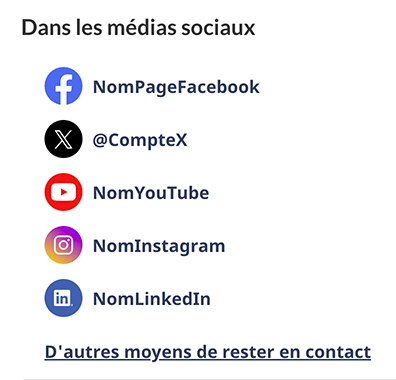
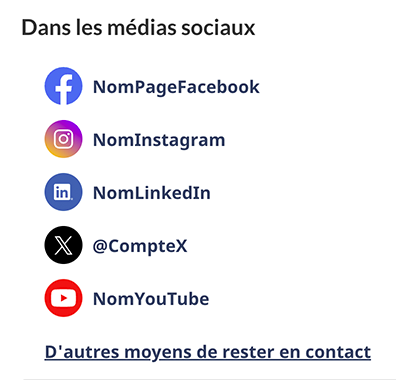
deploy: e136e1357b413902c76cb1150d416f6a62a647f1

diff --git a/configurations-conception-communes/bloc-medias-sociaux.html b/configurations-conception-communes/bloc-medias-sociaux.html
@@ -18,7 +18,7 @@
 		<meta name="dcterms.accessRights" content="2" />
 		<meta name="gcaaterms.sitename" content="ESDC-EDSC_CanadacaDesign-ConceptionCanadaca" />
 		<meta name="dcterms.issued" title="W3CDTF" content="2018-12-19"/>
-		<meta name="dcterms.modified" title="W3CDTF" content="2025-05-15"/>
+		<meta name="dcterms.modified" title="W3CDTF" content="2026-01-30"/>
 		<meta name="generator" content="Jekyll v4.3.2" />
 		<meta name="google-site-verification" content="Nt_CftRIypA9xVS7Znb2VkrsYbtIDuFWHryxSAC6OwM" />
 		<meta name="yandex-verification" content="4dda5b1b6e392d83" />
@@ -176,9 +176,9 @@
 				<span>Chaînes de médias sociaux</span>: <span>Conception de Canada.ca</span>
 			</span>
 		</h1><!-- Custom code ends here -->
-		<p><strong>Dernière mise à jour</strong>&nbsp;: 2025-05-15</p>
+		<p><strong>Dernière mise à jour</strong>&nbsp;: 2026-01-30</p>
 <p>La configuration de conception des chaînes de médias sociaux fournit des liens vers les comptes de médias sociaux officiels du gouvernement du Canada (GC).</p>
-<div class="pattern-demo mrgn-tp-lg mrgn-bttm-xl"><img src="/images/social-media-vertical-mask-fr.png" class="img-responsive" alt="" /></div>
+<div class="pattern-demo mrgn-tp-lg mrgn-bttm-xl"><img src="../images/social-media-vertical-mask-fr.png" class="img-responsive" alt="" /></div>
 <section>
   <h2>Sur cette page</h2>
   <ul>
@@ -210,15 +210,14 @@
   <h3>Spécifications de contenu</h3>
   <p>La configuration de conception des chaînes de médias sociaux est composée du titre «&nbsp;Dans les médias sociaux &nbsp;» et d’icônes renvoyant aux comptes de médias sociaux officiels du gouvernement du Canada.</p>
   <p>Les comptes mentionnés dans la configuration de conception doivent être entièrement conformes à la <a href="https://www.tbs-sct.canada.ca/pol/doc-fra.aspx?id=30682">Directive sur la gestion des communications.</a></p>
+  <p>Vous pouvez utiliser les icônes d’autres médias sociaux que celles qui sont fournies dans cet exemple, en autant qu’ils représentent des comptes de médias sociaux officiels du GC.</p>
+  <p>L’ordre des icônes des médias sociaux n’est pas imposé. Vous pouvez les placer dans l’ordre qui convient le mieux au contexte.</p>
   <p>Afficher un maximum de cinq (5) icônes alignées dans une colonne verticale ou une rangée horizontale&nbsp;:</p>
   <ul>
     <li>L’affichage vertical comprend une étiquette à côté de chaque icône.</li>
     <li>L’affichage horizontal ne comprend que les icônes.</li>
   </ul>
-  <h4>Lien optionnel</h4>
-  <p>Vous pouvez ajouter un lien intitulé «&nbsp;D’autres moyens de rester en contact&nbsp;» si vous souhaitez créer un lien vers d’autres comptes de médias sociaux ou d’autres plateformes de communication ministérielles (p. ex., balados, magazines externes, etc.). Le lien doit mener vers une page qui répertorie tous vos comptes de médias sociaux et les autres moyens de communiquer avec le ministère ou de le suivre.</p>
-
-  <p>S’il y a plus d’un compte pour une plateforme&nbsp;:</p>
+    <p>S’il y a plus d’un compte pour une plateforme&nbsp;:</p>
   <ul>
     <li>Indiquez le nom de la plateforme à côté de son icône (affichage vertical seulement).</li>
     <li>Utilisez une fenêtre contextuelle modale pour afficher le nom de chaque compte sur cette plateforme.
@@ -229,6 +228,8 @@
     </li>
   </ul>
   <p>Placez les chaînes de médias sociaux après la tâche et le contenu de navigation.</p>
+  <h4>Lien optionnel</h4>
+  <p>Vous pouvez ajouter un lien intitulé «&nbsp;D’autres moyens de rester en contact&nbsp;» si vous souhaitez créer un lien vers d’autres comptes de médias sociaux ou d’autres plateformes de communication ministérielles (p. ex., balados, magazines externes, etc.). Le lien doit mener vers une page qui répertorie tous vos comptes de médias sociaux et les autres moyens de communiquer avec le ministère ou de le suivre.</p>
   <h3>Spécifications de conception</h3>
   <ul>
     <li>Spécifications de conception de la fenêtre contextuelle modale
@@ -277,24 +278,6 @@
                 </div></td>
             </tr>
             <tr>
-              <td>X</td>
-              <td><p>twitter</p></td>
-              <td class="text-center"><div class="provisional gc-followus">
-                  <ul class="list-inline">
-                    <li><a href="https://github.com/wet-boew/GCWeb/blob/master/components/gc-follow-us/assets/x.svg" class="twitter"><span class="wb-inv">X</span></a></li>
-                  </ul>
-                </div></td>
-            </tr>
-            <tr>
-              <td>YouTube</td>
-              <td><p>youtube</p></td>
-              <td class="text-center"><div class="provisional gc-followus">
-                  <ul class="list-inline">
-                    <li><a href="https://github.com/wet-boew/GCWeb/blob/master/components/gc-follow-us/assets/youtube.svg" class="youtube"><span class="wb-inv">YouTube</span></a></li>
-                  </ul>
-                </div></td>
-            </tr>
-            <tr>
               <td>Instagram</td>
               <td>instagram</td>
               <td class="text-center"><div class="provisional gc-followus">
@@ -312,6 +295,24 @@
                   </ul>
                 </div></td>
             </tr>
+            <tr>
+              <td>X</td>
+              <td><p>twitter</p></td>
+              <td class="text-center"><div class="provisional gc-followus">
+                  <ul class="list-inline">
+                    <li><a href="https://github.com/wet-boew/GCWeb/blob/master/components/gc-follow-us/assets/x.svg" class="twitter"><span class="wb-inv">X</span></a></li>
+                  </ul>
+                </div></td>
+            </tr>
+            <tr>
+              <td>YouTube</td>
+              <td><p>youtube</p></td>
+              <td class="text-center"><div class="provisional gc-followus">
+                  <ul class="list-inline">
+                    <li><a href="https://github.com/wet-boew/GCWeb/blob/master/components/gc-follow-us/assets/youtube.svg" class="youtube"><span class="wb-inv">YouTube</span></a></li>
+                  </ul>
+                </div></td>
+            </tr>
           </tbody>
         </table>
       </div>
@@ -321,16 +322,16 @@
   <div class="pattern-demo mrgn-tp-md mrgn-bttm-md">
     <figure class="mrgn-tp-md mrgn-bttm-lg">
       <figcaption><b>Chaînes de médias sociaux (affichage vertical avec étiquettes) — grand écran</b></figcaption>
-      <img src="/images/social-media-vertical-mask-fr.png" class="img-responsive" alt="Chaînes de médias sociaux (affichage vertical avec étiquettes) pour les grands écrans. Version texte ci-dessous&nbsp;:" />
+      <img src="../images/social-media-vertical-mask-fr.png" class="img-responsive" alt="Chaînes de médias sociaux (affichage vertical avec étiquettes) pour les grands écrans. Version texte ci-dessous&nbsp;:" />
       <details>
         <summary class="wb-toggle" data-toggle="{&quot;print&quot;:&quot;on&quot;}">Description de l’image&nbsp;: chaîne de médias sociaux (affichage horizontal) - grand écran</summary>
         <p>Les liens vers les chaînes de médias sociaux apparaissent avec le titre «&nbsp;Dans les médias sociaux &nbsp;». On trouve sous le titre une liste horizontale avec les icônes et les étiquettes associées&nbsp;:</p>
         <ul>
           <li>Icône de Facebook suivie du texte de l’espace réservé NomPageFacebook</li>
+           <li>Icône d’Instagram suivie du texte de l’espace réservé NomInstagram</li>
+          <li>Icône de LinkedIn suivie du texte de l’espace réservé NomLinkedIn</li>
           <li>Icône de X suivie du texte de l’espace réservé @CompteX</li>
           <li>Icône de YouTube suivie du texte de l’espace réservé NomYouTube</li>
-          <li>Icône d’Instagram suivie du texte de l’espace réservé NomInstagram</li>
-          <li>Icône de LinkedIn suivie du texte de l’espace réservé NomLinkedIn</li>
         </ul>
       </details>
     </figure>
@@ -338,16 +339,16 @@
   <div class="pattern-demo mrgn-tp-md mrgn-bttm-md">
     <figure class="mrgn-tp-md mrgn-bttm-lg">
       <figcaption><b>Chaînes de médias sociaux (affichage vertical avec étiquettes) — grand écran</b></figcaption>
-      <img src="/images/social-media-horizontal-mask-fr.png" class="img-responsive" alt="Chaînes de médias sociaux (affichage vertical avec étiquettes) pour les grands écrans. Version texte ci-dessous&nbsp;:" />
+      <img src="../images/social-media-horizontal-mask-fr.png" class="img-responsive" alt="Chaînes de médias sociaux (affichage vertical avec étiquettes) pour les grands écrans. Version texte ci-dessous&nbsp;:" />
       <details>
         <summary class="wb-toggle" data-toggle="{&quot;print&quot;:&quot;on&quot;}">Description de l’image&nbsp;: chaîne de médias sociaux (affichage horizontal) - grand écran</summary>
         <p>Les liens vers les chaînes de médias sociaux apparaissent avec le titre «&nbsp;Dans les médias sociaux &nbsp;».  On trouve sous le titre une liste horizontale avec les icônes associées, mais sans les étiquettes&nbsp;:</p>
         <ul>
           <li>Facebook</li>
-          <li>X</li>
-          <li>Youtube</li>
           <li>Instagram</li>
           <li>LinkedIn</li>
+          <li>X</li>
+          <li>Youtube</li>
         </ul>
       </details>
     </figure>
@@ -361,9 +362,9 @@
         <p>Les liens vers les chaînes de médias sociaux apparaissent avec le titre «&nbsp;Dans les médias sociaux &nbsp;». Les liens sont organisés dans une liste à puces avec les icônes et les étiquettes associées&nbsp;:</p>
         <ul>
           <li>Icône de Facebook suivie du texte de l’espace réservé NomPageFacebook</li>
-          <li>Icône de X suivie du texte de l’espace réservé @CompteX</li>
           <li>Icône de YouTube suivie du texte de l’espace réservé NomYouTube</li>
           <li>Icône d’Instagram suivie du texte de l’espace réservé NomInstagram</li>
+          <li>Icône de X suivie du texte de l’espace réservé @CompteX</li>
           <li>Icône de LinkedIn suivie du texte de l’espace réservé NomLinkedIn</li>
         </ul>
         <p>Sous les icônes se trouve un lien intitulé&nbsp;: D’autres moyens de rester en contact</p>
@@ -379,9 +380,9 @@
         <p>Les liens vers les chaînes de médias sociaux apparaissent avec le titre «&nbsp;Dans les médias sociaux &nbsp;». Les liens sont organisés dans une liste à puces avec les icônes et les étiquettes associées&nbsp;:</p>
         <ul>
           <li>Icône de Facebook</li>
-          <li>Icône de X</li>
           <li>Icône de YouTube</li>
           <li>Icône d’Instagram</li>
+          <li>Icône de X</li>
           <li>Icône de LinkedIn</li>
         </ul>
         <p>Sous les icônes se trouve un lien intitulé&nbsp;: D’autres moyens de rester en contact</p>
@@ -455,6 +456,8 @@
 <section id="changements">
   <h2>Derniers changements</h2>
   <dl class="dl-horizontal">
+   <dt><time>2026-01-30</time></dt>
+    <dd> L’orientation qui précise que d’autres icônes de médias sociaux peuvent être utilisées et qu’elles peuvent être placées dans un autre ordre a été mise à jour.</dd>
     <dt><time>2025-05-15</time></dt>
     <dd>Mise à jour des caractéristiques typographiques en parallèle avec les activités d'alignement pour GCWeb et le Système de design GC.</dd>
     <dt><time>2024-09-19</time></dt>
@@ -478,7 +481,7 @@
 		</div>
 	</div><dl id="wb-dtmd">
 	<dt>Date de modification&#160;:</dt>
-	<dd><time property="dateModified">2025-05-15</time></dd>
+	<dd><time property="dateModified">2026-01-30</time></dd>
 </dl>
 </section>
 

diff --git a/a-propos/derniers-changements.html b/a-propos/derniers-changements.html
@@ -18,7 +18,7 @@
 		<meta name="dcterms.accessRights" content="2" />
 		<meta name="gcaaterms.sitename" content="ESDC-EDSC_CanadacaDesign-ConceptionCanadaca" />
 		<meta name="dcterms.issued" title="W3CDTF" content="2020-10-30"/>
-		<meta name="dcterms.modified" title="W3CDTF" content="2025-12-18"/>
+		<meta name="dcterms.modified" title="W3CDTF" content="2026-01-30"/>
 		<meta name="generator" content="Jekyll v4.3.2" />
 		<meta name="google-site-verification" content="Nt_CftRIypA9xVS7Znb2VkrsYbtIDuFWHryxSAC6OwM" />
 		<meta name="yandex-verification" content="4dda5b1b6e392d83" />
@@ -175,6 +175,10 @@
 </div>
 <div id="expand-collapse">
 <details open="open">
+    <summary><time datetime="2026-01-30">30 janvier 2026</time></summary>
+    <p>L’orientation relative aux médias sociaux a été mise à jour afin d’y préciser que d’autres icônes de médias sociaux peuvent être utilisées et qu’elles peuvent être placées dans un autre ordre.</p>
+  </details>
+<details>
     <summary><time datetime="2025-12-18">18 décembre 2025</time></summary>
     <p>Ajout d’une alerte à la page de contenu de base pour indiquer qu’elle sera mise hors service et de plutôt utiliser <a href="https://systeme-design.alpha.canada.ca/fr/modeles-de-page/basic/">le modèle de page de base</a> du Système de design GC.</p>
   </details>
@@ -491,7 +495,7 @@
 		</div>
 	</div><dl id="wb-dtmd">
 	<dt>Date de modification&#160;:</dt>
-	<dd><time property="dateModified">2025-12-18</time></dd>
+	<dd><time property="dateModified">2026-01-30</time></dd>
 </dl>
 </section>
 
